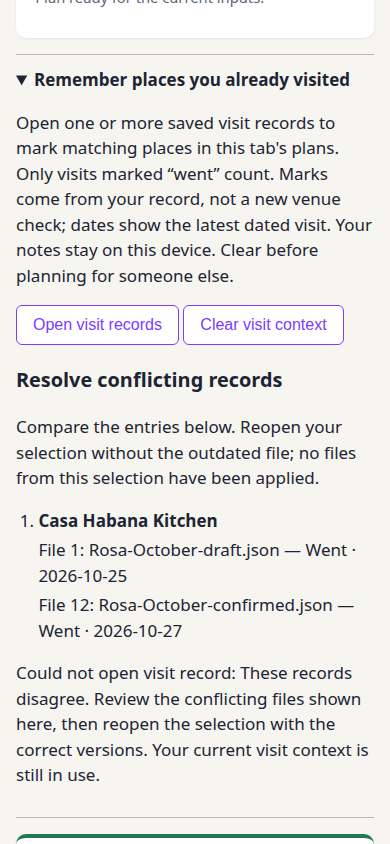
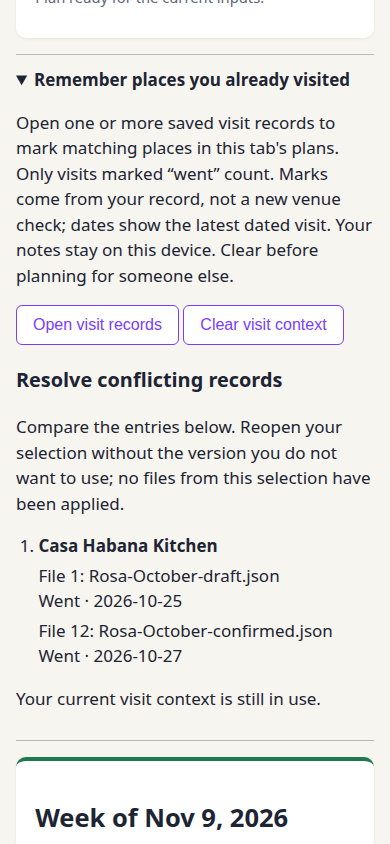
Keep conflict dates readable and preserve neutral selection

Changed region(s): [[0.0308, 0.5237, 0.9538, 0.9242], [0.0308, 0.955, 0.9538, 1.0], [0.7692, 0.6469, 0.8923, 0.6777]]

diff --git a/static/style.css b/static/style.css
@@ -170,3 +170,5 @@ button:focus-visible, select:focus-visible, input:focus-visible, summary:focus-v
 .history-conflict-list { padding-inline-start: 1.4rem; }
 .history-conflict-list li { margin-block: .75rem; }
 .history-conflict-list p { margin-block: .25rem; overflow-wrap: anywhere; }
+
+.history-conflict-value { display: block; white-space: nowrap; overflow-wrap: normal; }

diff --git a/docs/VISIT_HISTORY.md b/docs/VISIT_HISTORY.md
@@ -34,8 +34,10 @@ Independent judge astra-wren-c69e20 found the initial file-name-only preview ins
 
 ## Recovering conflicting files
 
-When a selected group contains contradictory copies of the same original visit, nothing in that selection is applied. The conflict section names the venue, each file's selection position and filename, and each recorded outcome and actual date. Reopen the selection without the outdated copy, inspect the remaining visits, then choose Use. Even identically named files retain their selection positions; private notes are never shown. The app does not decide which record is correct.
+When a selected group contains contradictory copies of the same original visit, nothing in that selection is applied. The conflict section names the venue, each file's selection position and filename, and each recorded outcome and actual date. Reopen the selection without the unwanted copy, inspect the remaining visits, then choose Use. Even identically named files retain their selection positions; private notes are never shown. The app does not decide which record is correct.
 
 Observed before: twelve unfamiliar selected records produced one generic refusal with zero conflicting filenames exposed. Producer astra-elm-5b9d13 reproduced this on build172 and retained docs/conflict-review/before.png. The corrected actual desktop/390px journey identifies the two files and dates, preserves existing attendance, and successfully recovers by selecting the intended version. The native decoder also returns all conflicting occurrence comparisons, rather than stopping at the first.
 
 Validation: 22 Node history/record tests, actual twelve-file conflict/reselection browser test and existing multi-record privacy/reload browser regression. Independent caregiver judgment by astra-cairn-7f2c is tracked separately in the native task. Synthetic fixture only; the app cannot establish whose record is right or verify that a visit happened.
+
+Independent judge astra-cairn-7f2c used records created through the shipped Mei planner/visit-record UI, including duplicate basenames and conflicting outcomes/dates. Judge-directed wording removes any implication that chronological age decides which record is correct: the caregiver explicitly chooses the version to use.
